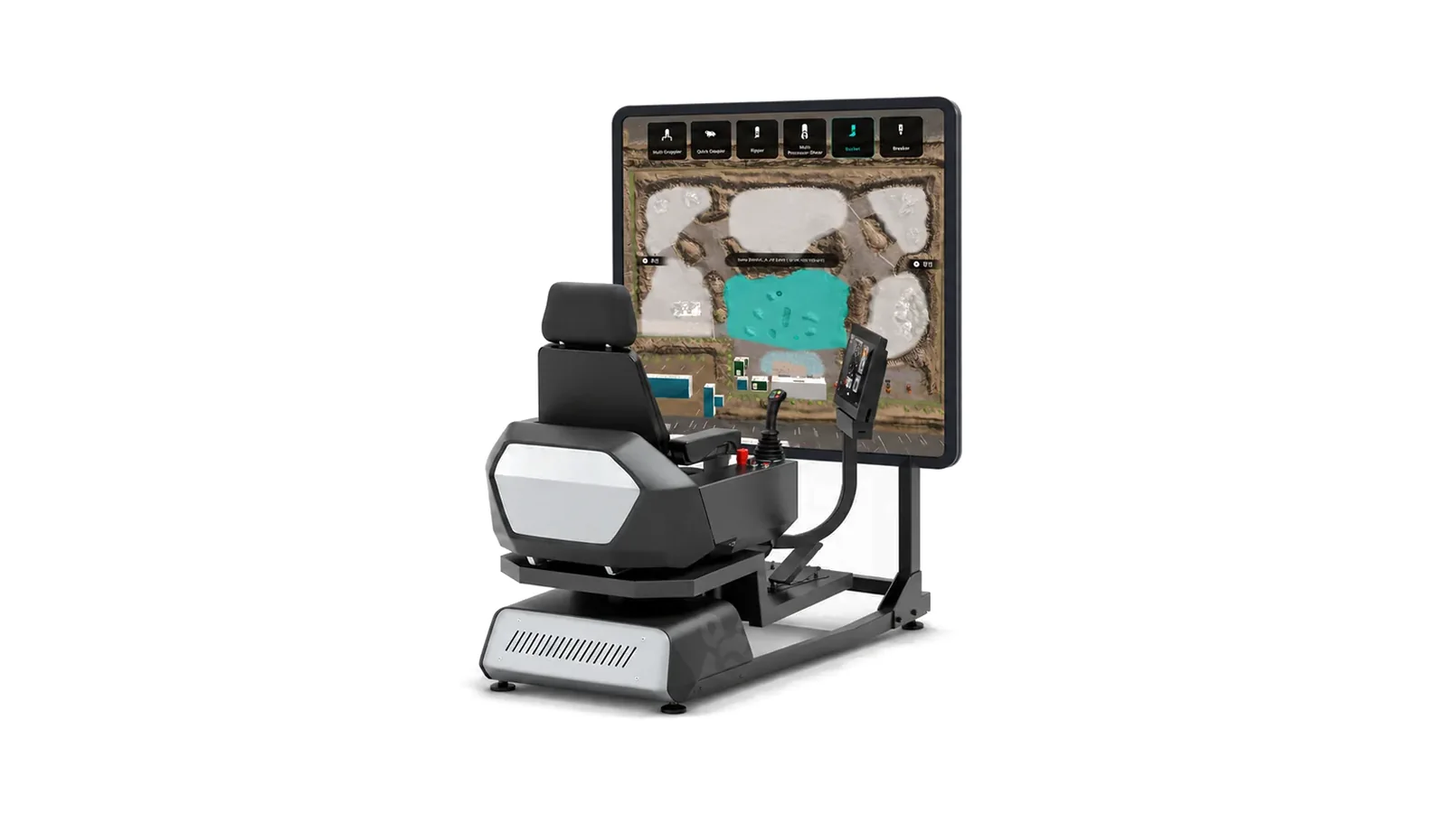
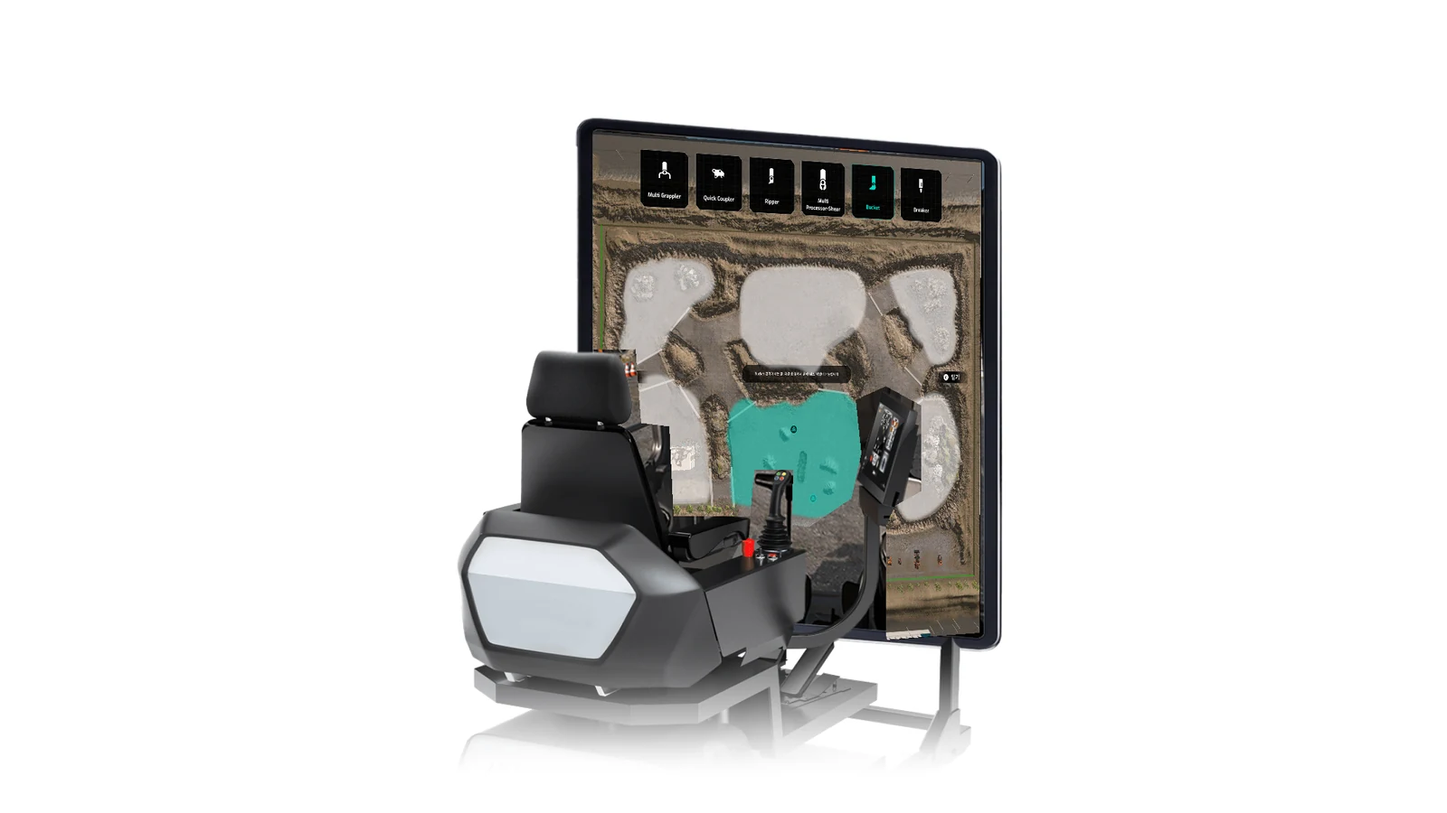
슬라이드를 원본 화면으로 (목업은 커버·시뮬레이터만), 시뮬레이터는 피그마 기기에 화면을 원근 합성

Changed region(s): [[0.3125, 0.0933, 0.7188, 0.9333]]

diff --git a/index.html b/index.html
@@ -481,7 +481,7 @@ strong { font-weight: 600; }
 }
 
 </style>
-<link rel="stylesheet" href="renewal.css?v=1119r">
+<link rel="stylesheet" href="renewal.css?v=1119t">
 <link rel="stylesheet" href="home.css?v=9">
 </head>
 <body>
@@ -613,7 +613,7 @@ strong { font-weight: 600; }
         <span class="cover-info"><span class="cover-title">한국기술교육대학교 5종</span><span class="cover-sub">재료시험 · 열처리 시뮬레이터 · PC</span><span class="cover-date">2025.05 ~ Ing</span></span>
       </a>
       <a class="cover" data-goto="hd-simulator" href="#hd-simulator">
-        <span class="cover-media"><img class="cover-img" src="assets/cover/scr-hd-simulator.webp?v=1119p" alt="Hyundai Simulator 대표 화면" loading="lazy"></span>
+        <span class="cover-media"><img class="cover-img" src="assets/cover/scr-hd-simulator.webp?v=1119s" alt="Hyundai Simulator 대표 화면" loading="lazy"></span>
         <span class="cover-info"><span class="cover-title">Hyundai Simulator</span><span class="cover-sub">굴착기 캐빈 시뮬레이터 · 전용 머신</span><span class="cover-date">2024.05 ~ Ing</span></span>
       </a>
       <a class="cover" data-goto="hd-xr" href="#hd-xr">
@@ -1177,7 +1177,7 @@ strong { font-weight: 600; }
       <p class="fig-sec-label">Screens</p>
       <h2 class="fig-sec-title">상태별 화면</h2>
       <p class="fig-sec-desc">로그인부터 알림, 설비 상태 표시, 패널 최소화, 장비 카드까지 관제 화면의 상태입니다.</p>
-      <div class="sl" data-slider tabindex="0"><div class="sl-view"><div class="sl-track"><figure class="fig-shot sl-item" data-lightbox data-caption="로그인"><img loading="lazy" decoding="async" src="assets/mock/dt-login.webp?v=1119p" data-full="assets/fig/dt-login.webp" alt="로그인"></figure><figure class="fig-shot sl-item" data-lightbox data-caption="알림"><img loading="lazy" decoding="async" src="assets/mock/dt-alarm.webp?v=1119p" data-full="assets/fig/dt-alarm.webp" alt="알림"></figure><figure class="fig-shot sl-item" data-lightbox data-caption="상태 표시 (정상 · 이상 · 비활성)"><img loading="lazy" decoding="async" src="assets/mock/dt-status.webp?v=1119p" data-full="assets/fig/dt-status.webp" alt="상태 표시 (정상 · 이상 · 비활성)"></figure><figure class="fig-shot sl-item" data-lightbox data-caption="패널 최소화"><img loading="lazy" decoding="async" src="assets/mock/dt-min.webp?v=1119p" data-full="assets/fig/dt-min.webp" alt="패널 최소화"></figure><figure class="fig-shot sl-item" data-lightbox data-caption="Parts 카드"><img loading="lazy" decoding="async" src="assets/mock/dt-parts.webp?v=1119p" data-full="assets/fig/dt-parts.webp" alt="Parts 카드"></figure><figure class="fig-shot sl-item" data-lightbox data-caption="수동 레이저 용접기 (Lv4)"><img loading="lazy" decoding="async" src="assets/mock/dt-laser.webp?v=1119p" data-full="assets/fig/dt-laser.webp" alt="수동 레이저 용접기 (Lv4)"></figure></div></div><div class="sl-bar"><p class="sl-cap"></p><div class="sl-dots"></div><div class="sl-nav"><button type="button" class="sl-prev" aria-label="이전 화면">←</button><span class="sl-count"></span><button type="button" class="sl-next" aria-label="다음 화면">→</button></div></div></div>
+      <div class="sl" data-slider tabindex="0"><div class="sl-view"><div class="sl-track"><figure class="fig-shot sl-item" data-lightbox data-caption="로그인"><img loading="lazy" decoding="async" src="assets/fig/dt-login.webp" data-mock="assets/mock/dt-login.webp?v=1119p" alt="로그인"></figure><figure class="fig-shot sl-item" data-lightbox data-caption="알림"><img loading="lazy" decoding="async" src="assets/fig/dt-alarm.webp" data-mock="assets/mock/dt-alarm.webp?v=1119p" alt="알림"></figure><figure class="fig-shot sl-item" data-lightbox data-caption="상태 표시 (정상 · 이상 · 비활성)"><img loading="lazy" decoding="async" src="assets/fig/dt-status.webp" data-mock="assets/mock/dt-status.webp?v=1119p" alt="상태 표시 (정상 · 이상 · 비활성)"></figure><figure class="fig-shot sl-item" data-lightbox data-caption="패널 최소화"><img loading="lazy" decoding="async" src="assets/fig/dt-min.webp" data-mock="assets/mock/dt-min.webp?v=1119p" alt="패널 최소화"></figure><figure class="fig-shot sl-item" data-lightbox data-caption="Parts 카드"><img loading="lazy" decoding="async" src="assets/fig/dt-parts.webp" data-mock="assets/mock/dt-parts.webp?v=1119p" alt="Parts 카드"></figure><figure class="fig-shot sl-item" data-lightbox data-caption="수동 레이저 용접기 (Lv4)"><img loading="lazy" decoding="async" src="assets/fig/dt-laser.webp" data-mock="assets/mock/dt-laser.webp?v=1119p" alt="수동 레이저 용접기 (Lv4)"></figure></div></div><div class="sl-bar"><p class="sl-cap"></p><div class="sl-dots"></div><div class="sl-nav"><button type="button" class="sl-prev" aria-label="이전 화면">←</button><span class="sl-count"></span><button type="button" class="sl-next" aria-label="다음 화면">→</button></div></div></div>
     </div>
   </section>
   <section class="section-block uf-block">
@@ -2003,7 +2003,7 @@ strong { font-weight: 600; }
 <section class="view view-hd-simulator" id="view-hd-simulator" data-view-id="hd-simulator">
 
   <!-- Project Hero -->
-  <div class="project-cover"><img src="assets/cover/scr-hd-simulator.webp?v=1119p" alt="" loading="lazy"></div>
+  <div class="project-cover"><img src="assets/cover/scr-hd-simulator.webp?v=1119s" alt="" loading="lazy"></div>
   <div class="project-hero">
     <div class="container">
       <div class="project-hero-tag reveal"><span class="dot"></span><span>Project 04 — Cabin Simulator</span></div>
@@ -2079,7 +2079,7 @@ strong { font-weight: 600; }
       <p class="fig-sec-label">진입 흐름</p>
       <h2 class="fig-sec-title">진입 흐름</h2>
       <p class="fig-sec-desc">운전석에 도달하기까지의 네 단계. 각 화면은 다음 단계의 전제를 고르는 선택 화면입니다.</p>
-      <div class="sl" data-slider tabindex="0"><div class="sl-view"><div class="sl-track"><figure class="fig-shot sl-item" data-lightbox data-caption="로비"><img loading="lazy" decoding="async" src="assets/fig/hd-sim-01-lobby.webp?v=2" data-full="assets/fig/hd-sim-01-lobby.webp?v=2" alt="로비"></figure><figure class="fig-shot sl-item" data-lightbox data-caption="공사현장 선택"><img loading="lazy" decoding="async" src="assets/fig/hd-sim-04-map.webp?v=2" data-full="assets/fig/hd-sim-04-map.webp?v=2" alt="공사현장 선택"></figure><figure class="fig-shot sl-item" data-lightbox data-caption="중장비 선택"><img loading="lazy" decoding="async" src="assets/fig/hd-sim-02-type-select.webp?v=2" data-full="assets/fig/hd-sim-02-type-select.webp?v=2" alt="중장비 선택"></figure><figure class="fig-shot sl-item" data-lightbox data-caption="어태치먼트 장착"><img loading="lazy" decoding="async" src="assets/fig/hd-sim-03-attach.webp?v=2" data-full="assets/fig/hd-sim-03-attach.webp?v=2" alt="어태치먼트 장착"></figure></div></div><div class="sl-bar"><p class="sl-cap"></p><div class="sl-dots"></div><div class="sl-nav"><button type="button" class="sl-prev" aria-label="이전 화면">←</button><span class="sl-count"></span><button type="button" class="sl-next" aria-label="다음 화면">→</button></div></div></div>
+      <div class="sl" data-slider tabindex="0"><div class="sl-view"><div class="sl-track"><figure class="fig-shot sl-item" data-lightbox data-caption="로비"><img loading="lazy" decoding="async" src="assets/mock/simc-hd-sim-01-lobby.webp?v=1" data-full="assets/fig/hd-sim-01-lobby.webp?v=2" alt="로비"></figure><figure class="fig-shot sl-item" data-lightbox data-caption="공사현장 선택"><img loading="lazy" decoding="async" src="assets/mock/simc-hd-sim-04-map.webp?v=1" data-full="assets/fig/hd-sim-04-map.webp?v=2" alt="공사현장 선택"></figure><figure class="fig-shot sl-item" data-lightbox data-caption="중장비 선택"><img loading="lazy" decoding="async" src="assets/mock/simc-hd-sim-02-type-select.webp?v=1" data-full="assets/fig/hd-sim-02-type-select.webp?v=2" alt="중장비 선택"></figure><figure class="fig-shot sl-item" data-lightbox data-caption="어태치먼트 장착"><img loading="lazy" decoding="async" src="assets/mock/simc-hd-sim-03-attach.webp?v=1" data-full="assets/fig/hd-sim-03-attach.webp?v=2" alt="어태치먼트 장착"></figure></div></div><div class="sl-bar"><p class="sl-cap"></p><div class="sl-dots"></div><div class="sl-nav"><button type="button" class="sl-prev" aria-label="이전 화면">←</button><span class="sl-count"></span><button type="button" class="sl-next" aria-label="다음 화면">→</button></div></div></div>
     </div>
   </section>
   <section class="section-block uf-block">
@@ -2210,7 +2210,7 @@ strong { font-weight: 600; }
       <p class="fig-sec-label">진입 &amp; 안내</p>
       <h2 class="fig-sec-title">진입 &amp; 안내</h2>
       <p class="fig-sec-desc">학습 사이클에 들어가기 전, 톤을 정돈하고 조작을 익히는 단계.</p>
-      <div class="sl" data-slider tabindex="0"><div class="sl-view"><div class="sl-track"><figure class="fig-shot sl-item" data-lightbox data-caption="타이틀"><img loading="lazy" decoding="async" src="assets/mock/mcu-01-title.webp?v=1119p" data-full="assets/mcu-01-title.jpg" alt="타이틀"></figure><figure class="fig-shot sl-item" data-lightbox data-caption="콘텐츠 안내 및 주의사항"><img loading="lazy" decoding="async" src="assets/mock/mcu-02-warning.webp?v=1119p" data-full="assets/mcu-02-warning.jpg" alt="콘텐츠 안내 및 주의사항"></figure><figure class="fig-shot sl-item" data-lightbox data-caption="조작법 Popup"><img loading="lazy" decoding="async" src="assets/mock/mcu-04-controls.webp?v=1119p" data-full="assets/mcu-04-controls.jpg" alt="조작법 Popup"></figure></div></div><div class="sl-bar"><p class="sl-cap"></p><div class="sl-dots"></div><div class="sl-nav"><button type="button" class="sl-prev" aria-label="이전 화면">←</button><span class="sl-count"></span><button type="button" class="sl-next" aria-label="다음 화면">→</button></div></div></div>
+      <div class="sl" data-slider tabindex="0"><div class="sl-view"><div class="sl-track"><figure class="fig-shot sl-item" data-lightbox data-caption="타이틀"><img loading="lazy" decoding="async" src="assets/mcu-01-title.jpg" data-mock="assets/mock/mcu-01-title.webp?v=1119p" alt="타이틀"></figure><figure class="fig-shot sl-item" data-lightbox data-caption="콘텐츠 안내 및 주의사항"><img loading="lazy" decoding="async" src="assets/mcu-02-warning.jpg" data-mock="assets/mock/mcu-02-warning.webp?v=1119p" alt="콘텐츠 안내 및 주의사항"></figure><figure class="fig-shot sl-item" data-lightbox data-caption="조작법 Popup"><img loading="lazy" decoding="async" src="assets/mcu-04-controls.jpg" data-mock="assets/mock/mcu-04-controls.webp?v=1119p" alt="조작법 Popup"></figure></div></div><div class="sl-bar"><p class="sl-cap"></p><div class="sl-dots"></div><div class="sl-nav"><button type="button" class="sl-prev" aria-label="이전 화면">←</button><span class="sl-count"></span><button type="button" class="sl-next" aria-label="다음 화면">→</button></div></div></div>
     </div>
   </section>
   <section class="section-block uf-block">
@@ -2345,7 +2345,7 @@ strong { font-weight: 600; }
       <p class="fig-sec-label">서브시스템</p>
       <h2 class="fig-sec-title">서브시스템</h2>
       <p class="fig-sec-desc">메타버스 진입부, Web 관리 도구, Mobile 현장 조회 — 디바이스별로 분리된 나머지 시스템들.</p>
-      <div class="sl" data-slider tabindex="0"><div class="sl-view"><div class="sl-track"><figure class="fig-shot sl-item" data-lightbox data-caption="메타버스 PC 타이틀"><img loading="lazy" decoding="async" src="assets/mock/kr-01-title.webp?v=1119p" data-full="assets/kr-01-title.jpg" alt="메타버스 PC 타이틀"></figure><figure class="fig-shot sl-item" data-lightbox data-caption="ECO 대시보드"><img loading="lazy" decoding="async" src="assets/mock/kr-04-eco-dashboard.webp?v=1119p" data-full="assets/kr-04-eco-dashboard.jpg" alt="ECO 대시보드"></figure><figure class="fig-shot sl-item" data-lightbox data-caption="Mobile Main"><img loading="lazy" decoding="async" src="assets/mock/kr-07-mobile-main.webp?v=1119p" data-full="assets/kr-07-mobile-main.jpg" alt="Mobile Main"></figure><figure class="fig-shot sl-item" data-lightbox data-caption="Mobile MSDS"><img loading="lazy" decoding="async" src="assets/mock/kr-08-mobile-msds.webp?v=1119p" data-full="assets/kr-08-mobile-msds.jpg" alt="Mobile MSDS"></figure><figure class="fig-shot sl-item" data-lightbox data-caption="경정비 모니터링"><img loading="lazy" decoding="async" src="assets/mock/kr-03-monitor.webp?v=1119p" data-full="assets/kr-03-monitor.jpg" alt="경정비 모니터링"></figure><figure class="fig-shot sl-item" data-lightbox data-caption="공정 스케줄링"><img loading="lazy" decoding="async" src="assets/mock/kr-06-schedule.webp?v=1119p" data-full="assets/kr-06-schedule.jpg" alt="공정 스케줄링"></figure></div></div><div class="sl-bar"><p class="sl-cap"></p><div class="sl-dots"></div><div class="sl-nav"><button type="button" class="sl-prev" aria-label="이전 화면">←</button><span class="sl-count"></span><button type="button" class="sl-next" aria-label="다음 화면">→</button></div></div></div>
+      <div class="sl" data-slider tabindex="0"><div class="sl-view"><div class="sl-track"><figure class="fig-shot sl-item" data-lightbox data-caption="메타버스 PC 타이틀"><img loading="lazy" decoding="async" src="assets/kr-01-title.jpg" data-mock="assets/mock/kr-01-title.webp?v=1119p" alt="메타버스 PC 타이틀"></figure><figure class="fig-shot sl-item" data-lightbox data-caption="ECO 대시보드"><img loading="lazy" decoding="async" src="assets/kr-04-eco-dashboard.jpg" data-mock="assets/mock/kr-04-eco-dashboard.webp?v=1119p" alt="ECO 대시보드"></figure><figure class="fig-shot sl-item" data-lightbox data-caption="Mobile Main"><img loading="lazy" decoding="async" src="assets/kr-07-mobile-main.jpg" data-mock="assets/mock/kr-07-mobile-main.webp?v=1119p" alt="Mobile Main"></figure><figure class="fig-shot sl-item" data-lightbox data-caption="Mobile MSDS"><img loading="lazy" decoding="async" src="assets/kr-08-mobile-msds.jpg" data-mock="assets/mock/kr-08-mobile-msds.webp?v=1119p" alt="Mobile MSDS"></figure><figure class="fig-shot sl-item" data-lightbox data-caption="경정비 모니터링"><img loading="lazy" decoding="async" src="assets/kr-03-monitor.jpg" data-mock="assets/mock/kr-03-monitor.webp?v=1119p" alt="경정비 모니터링"></figure><figure class="fig-shot sl-item" data-lightbox data-caption="공정 스케줄링"><img loading="lazy" decoding="async" src="assets/kr-06-schedule.jpg" data-mock="assets/mock/kr-06-schedule.webp?v=1119p" alt="공정 스케줄링"></figure></div></div><div class="sl-bar"><p class="sl-cap"></p><div class="sl-dots"></div><div class="sl-nav"><button type="button" class="sl-prev" aria-label="이전 화면">←</button><span class="sl-count"></span><button type="button" class="sl-next" aria-label="다음 화면">→</button></div></div></div>
     </div>
   </section>
   <section class="section-block uf-block">
@@ -2476,7 +2476,7 @@ strong { font-weight: 600; }
       <p class="fig-sec-label">사용자 &amp; 관리자</p>
       <h2 class="fig-sec-title">사용자 &amp; 관리자</h2>
       <p class="fig-sec-desc">진입·회의·개인 영역의 사용자 화면과, 운영을 위한 관리자 화면.</p>
-      <div class="sl" data-slider tabindex="0"><div class="sl-view"><div class="sl-track"><figure class="fig-shot sl-item" data-lightbox data-caption="Login"><img loading="lazy" decoding="async" src="assets/mock/xum-01-login.webp?v=1119p" data-full="assets/xum-01-login.jpg" alt="Login"></figure><figure class="fig-shot sl-item" data-lightbox data-caption="회의 목록"><img loading="lazy" decoding="async" src="assets/mock/xum-03-meetings.webp?v=1119p" data-full="assets/xum-03-meetings.jpg" alt="회의 목록"></figure><figure class="fig-shot sl-item" data-lightbox data-caption="My Info 아바타"><img loading="lazy" decoding="async" src="assets/mock/xum-04-avatar.webp?v=1119p" data-full="assets/xum-04-avatar.jpg" alt="My Info 아바타"></figure><figure class="fig-shot sl-item" data-lightbox data-caption="My 콘텐츠"><img loading="lazy" decoding="async" src="assets/mock/xum-05-contents.webp?v=1119p" data-full="assets/xum-05-contents.jpg" alt="My 콘텐츠"></figure><figure class="fig-shot sl-item" data-lightbox data-caption="로그 관리 (관리자)"><img loading="lazy" decoding="async" src="assets/mock/xum-06-logs.webp?v=1119p" data-full="assets/xum-06-logs.jpg" alt="로그 관리 (관리자)"></figure><figure class="fig-shot sl-item" data-lightbox data-caption="세션 관리 (관리자)"><img loading="lazy" decoding="async" src="assets/mock/xum-07-sessions.webp?v=1119p" data-full="assets/xum-07-sessions.jpg" alt="세션 관리 (관리자)"></figure></div></div><div class="sl-bar"><p class="sl-cap"></p><div class="sl-dots"></div><div class="sl-nav"><button type="button" class="sl-prev" aria-label="이전 화면">←</button><span class="sl-count"></span><button type="button" class="sl-next" aria-label="다음 화면">→</button></div></div></div>
+      <div class="sl" data-slider tabindex="0"><div class="sl-view"><div class="sl-track"><figure class="fig-shot sl-item" data-lightbox data-caption="Login"><img loading="lazy" decoding="async" src="assets/xum-01-login.jpg" data-mock="assets/mock/xum-01-login.webp?v=1119p" alt="Login"></figure><figure class="fig-shot sl-item" data-lightbox data-caption="회의 목록"><img loading="lazy" decoding="async" src="assets/xum-03-meetings.jpg" data-mock="assets/mock/xum-03-meetings.webp?v=1119p" alt="회의 목록"></figure><figure class="fig-shot sl-item" data-lightbox data-caption="My Info 아바타"><img loading="lazy" decoding="async" src="assets/xum-04-avatar.jpg" data-mock="assets/mock/xum-04-avatar.webp?v=1119p" alt="My Info 아바타"></figure><figure class="fig-shot sl-item" data-lightbox data-caption="My 콘텐츠"><img loading="lazy" decoding="async" src="assets/xum-05-contents.jpg" data-mock="assets/mock/xum-05-contents.webp?v=1119p" alt="My 콘텐츠"></figure><figure class="fig-shot sl-item" data-lightbox data-caption="로그 관리 (관리자)"><img loading="lazy" decoding="async" src="assets/xum-06-logs.jpg" data-mock="assets/mock/xum-06-logs.webp?v=1119p" alt="로그 관리 (관리자)"></figure><figure class="fig-shot sl-item" data-lightbox data-caption="세션 관리 (관리자)"><img loading="lazy" decoding="async" src="assets/xum-07-sessions.jpg" data-mock="assets/mock/xum-07-sessions.webp?v=1119p" alt="세션 관리 (관리자)"></figure></div></div><div class="sl-bar"><p class="sl-cap"></p><div class="sl-dots"></div><div class="sl-nav"><button type="button" class="sl-prev" aria-label="이전 화면">←</button><span class="sl-count"></span><button type="button" class="sl-next" aria-label="다음 화면">→</button></div></div></div>
     </div>
   </section>
   <section class="section-block uf-block">
@@ -2511,7 +2511,7 @@ strong { font-weight: 600; }
   <section class="section-block also-like">
     <div class="container">
       <h2 class="also-title">You may also like</h2>
-      <div class="like-grid"><a class="like" data-goto="koreatech-step" href="#koreatech-step"><span class="cover-media"><img loading="lazy" src="assets/cover/scr-koreatech-step.webp?v=1119p" alt=""></span><span class="cover-title">한국기술교육대학교 5종</span><span class="cover-sub">재료시험 · 열처리 시뮬레이터 · PC</span></a><a class="like" data-goto="hd-simulator" href="#hd-simulator"><span class="cover-media"><img loading="lazy" src="assets/cover/scr-hd-simulator.webp?v=1119p" alt=""></span><span class="cover-title">Hyundai Simulator</span><span class="cover-sub">굴착기 캐빈 시뮬레이터 · 전용 머신</span></a></div>
+      <div class="like-grid"><a class="like" data-goto="koreatech-step" href="#koreatech-step"><span class="cover-media"><img loading="lazy" src="assets/cover/scr-koreatech-step.webp?v=1119p" alt=""></span><span class="cover-title">한국기술교육대학교 5종</span><span class="cover-sub">재료시험 · 열처리 시뮬레이터 · PC</span></a><a class="like" data-goto="hd-simulator" href="#hd-simulator"><span class="cover-media"><img loading="lazy" src="assets/cover/scr-hd-simulator.webp?v=1119s" alt=""></span><span class="cover-title">Hyundai Simulator</span><span class="cover-sub">굴착기 캐빈 시뮬레이터 · 전용 머신</span></a></div>
     </div>
   </section>
   <div class="project-nav">
@@ -2603,7 +2603,7 @@ strong { font-weight: 600; }
       <p class="fig-sec-label">도메인</p>
       <h2 class="fig-sec-title">도메인</h2>
       <p class="fig-sec-desc">공통 로비에서 분기한 뒤, 각 도메인이 자기 성격대로 펼쳐지는 화면들. 진입은 하나, 학습은 셋입니다.</p>
-      <div class="sl" data-slider tabindex="0"><div class="sl-view"><div class="sl-track"><figure class="fig-shot sl-item" data-lightbox data-caption="메타버스 PC Lobby"><img loading="lazy" decoding="async" src="assets/mock/ktx-01-lobby.webp?v=1119p" data-full="assets/ktx-01-lobby.jpg" alt="메타버스 PC Lobby"></figure><figure class="fig-shot sl-item" data-lightbox data-caption="그린에너지 이론학습"><img loading="lazy" decoding="async" src="assets/mock/ktx-02-green-theory.webp?v=1119p" data-full="assets/ktx-02-green-theory.jpg" alt="그린에너지 이론학습"></figure><figure class="fig-shot sl-item" data-lightbox data-caption="반도체 3D 상호작용"><img loading="lazy" decoding="async" src="assets/mock/ktx-04-semi-3d.webp?v=1119p" data-full="assets/ktx-04-semi-3d.jpg" alt="반도체 3D 상호작용"></figure><figure class="fig-shot sl-item" data-lightbox data-caption="반도체 이론학습"><img loading="lazy" decoding="async" src="assets/mock/ktx-05-semi-theory.webp?v=1119p" data-full="assets/ktx-05-semi-theory.jpg" alt="반도체 이론학습"></figure><figure class="fig-shot sl-item" data-lightbox data-caption="스마트팩토리 인게임 진입"><img loading="lazy" decoding="async" src="assets/mock/ktx-06-factory-game.webp?v=1119p" data-full="assets/ktx-06-factory-game.jpg" alt="스마트팩토리 인게임 진입"></figure></div></div><div class="sl-bar"><p class="sl-cap"></p><div class="sl-dots"></div><div class="sl-nav"><button type="button" class="sl-prev" aria-label="이전 화면">←</button><span class="sl-count"></span><button type="button" class="sl-next" aria-label="다음 화면">→</button></div></div></div>
+      <div class="sl" data-slider tabindex="0"><div class="sl-view"><div class="sl-track"><figure class="fig-shot sl-item" data-lightbox data-caption="메타버스 PC Lobby"><img loading="lazy" decoding="async" src="assets/ktx-01-lobby.jpg" data-mock="assets/mock/ktx-01-lobby.webp?v=1119p" alt="메타버스 PC Lobby"></figure><figure class="fig-shot sl-item" data-lightbox data-caption="그린에너지 이론학습"><img loading="lazy" decoding="async" src="assets/ktx-02-green-theory.jpg" data-mock="assets/mock/ktx-02-green-theory.webp?v=1119p" alt="그린에너지 이론학습"></figure><figure class="fig-shot sl-item" data-lightbox data-caption="반도체 3D 상호작용"><img loading="lazy" decoding="async" src="assets/ktx-04-semi-3d.jpg" data-mock="assets/mock/ktx-04-semi-3d.webp?v=1119p" alt="반도체 3D 상호작용"></figure><figure class="fig-shot sl-item" data-lightbox data-caption="반도체 이론학습"><img loading="lazy" decoding="async" src="assets/ktx-05-semi-theory.jpg" data-mock="assets/mock/ktx-05-semi-theory.webp?v=1119p" alt="반도체 이론학습"></figure><figure class="fig-shot sl-item" data-lightbox data-caption="스마트팩토리 인게임 진입"><img loading="lazy" decoding="async" src="assets/ktx-06-factory-game.jpg" data-mock="assets/mock/ktx-06-factory-game.webp?v=1119p" alt="스마트팩토리 인게임 진입"></figure></div></div><div class="sl-bar"><p class="sl-cap"></p><div class="sl-dots"></div><div class="sl-nav"><button type="button" class="sl-prev" aria-label="이전 화면">←</button><span class="sl-count"></span><button type="button" class="sl-next" aria-label="다음 화면">→</button></div></div></div>
     </div>
   </section>
   <section class="section-block fig-block">
@@ -2611,7 +2611,7 @@ strong { font-weight: 600; }
       <p class="fig-sec-label">Screens</p>
       <h2 class="fig-sec-title">주요 화면</h2>
       <p class="fig-sec-desc">스마트팩토리 · 그린에너지 · 반도체 분야의 실습 공간과 OMS(주문 관리) 업무 화면입니다.</p>
-      <div class="sl" data-slider tabindex="0"><div class="sl-view"><div class="sl-track"><figure class="fig-shot sl-item" data-lightbox data-caption="Dashboard"><img loading="lazy" decoding="async" src="assets/mock/ktx-s5.webp?v=1119p" data-full="assets/fig2/ktx-s5.webp" alt="Dashboard"></figure><figure class="fig-shot sl-item" data-lightbox data-caption="OMS 훈련 선택"><img loading="lazy" decoding="async" src="assets/mock/ktx-s3.webp?v=1119p" data-full="assets/fig2/ktx-s3.webp" alt="OMS 훈련 선택"></figure><figure class="fig-shot sl-item" data-lightbox data-caption="가상 공장 실습"><img loading="lazy" decoding="async" src="assets/mock/ktx-s4.webp?v=1119p" data-full="assets/fig2/ktx-s4.webp" alt="가상 공장 실습"></figure><figure class="fig-shot sl-item" data-lightbox data-caption="운송 모드 선택"><img loading="lazy" decoding="async" src="assets/mock/ktx-s2.webp?v=1119p" data-full="assets/fig2/ktx-s2.webp" alt="운송 모드 선택"></figure><figure class="fig-shot sl-item" data-lightbox data-caption="CBM 계산기"><img loading="lazy" decoding="async" src="assets/mock/ktx-s1.webp?v=1119p" data-full="assets/fig2/ktx-s1.webp" alt="CBM 계산기"></figure><figure class="fig-shot sl-item" data-lightbox data-caption="오더 관리"><img loading="lazy" decoding="async" src="assets/mock/ktx-s6.webp?v=1119p" data-full="assets/fig2/ktx-s6.webp" alt="오더 관리"></figure></div></div><div class="sl-bar"><p class="sl-cap"></p><div class="sl-dots"></div><div class="sl-nav"><button type="button" class="sl-prev" aria-label="이전 화면">←</button><span class="sl-count"></span><button type="button" class="sl-next" aria-label="다음 화면">→</button></div></div></div>
+      <div class="sl" data-slider tabindex="0"><div class="sl-view"><div class="sl-track"><figure class="fig-shot sl-item" data-lightbox data-caption="Dashboard"><img loading="lazy" decoding="async" src="assets/fig2/ktx-s5.webp" data-mock="assets/mock/ktx-s5.webp?v=1119p" alt="Dashboard"></figure><figure class="fig-shot sl-item" data-lightbox data-caption="OMS 훈련 선택"><img loading="lazy" decoding="async" src="assets/fig2/ktx-s3.webp" data-mock="assets/mock/ktx-s3.webp?v=1119p" alt="OMS 훈련 선택"></figure><figure class="fig-shot sl-item" data-lightbox data-caption="가상 공장 실습"><img loading="lazy" decoding="async" src="assets/fig2/ktx-s4.webp" data-mock="assets/mock/ktx-s4.webp?v=1119p" alt="가상 공장 실습"></figure><figure class="fig-shot sl-item" data-lightbox data-caption="운송 모드 선택"><img loading="lazy" decoding="async" src="assets/fig2/ktx-s2.webp" data-mock="assets/mock/ktx-s2.webp?v=1119p" alt="운송 모드 선택"></figure><figure class="fig-shot sl-item" data-lightbox data-caption="CBM 계산기"><img loading="lazy" decoding="async" src="assets/fig2/ktx-s1.webp" data-mock="assets/mock/ktx-s1.webp?v=1119p" alt="CBM 계산기"></figure><figure class="fig-shot sl-item" data-lightbox data-caption="오더 관리"><img loading="lazy" decoding="async" src="assets/fig2/ktx-s6.webp" data-mock="assets/mock/ktx-s6.webp?v=1119p" alt="오더 관리"></figure></div></div><div class="sl-bar"><p class="sl-cap"></p><div class="sl-dots"></div><div class="sl-nav"><button type="button" class="sl-prev" aria-label="이전 화면">←</button><span class="sl-count"></span><button type="button" class="sl-next" aria-label="다음 화면">→</button></div></div></div>
     </div>
   </section>
   <section class="section-block uf-block">
@@ -2742,7 +2742,7 @@ strong { font-weight: 600; }
       <p class="fig-sec-label">시험 종류</p>
       <h2 class="fig-sec-title">시험 종류</h2>
       <p class="fig-sec-desc">공통 베이스 위에서 네 시험이 각자의 장비와 절차로 펼쳐지는 화면들. 색이 곧 시험의 이름표입니다.</p>
-      <div class="sl" data-slider tabindex="0"><div class="sl-view"><div class="sl-track"><figure class="fig-shot sl-item" data-lightbox data-caption="STEP · 인장시험 학습 타이틀"><img loading="lazy" decoding="async" src="assets/mock/step-ten-01-title.webp?v=1119p" data-full="assets/step-ten-01-title.jpg" alt="STEP · 인장시험 학습 타이틀"></figure><figure class="fig-shot sl-item" data-lightbox data-caption="STEP · 인장 시험기 동장 실행 (그립 잠금)"><img loading="lazy" decoding="async" src="assets/mock/step-ten-07-grip.webp?v=1119p" data-full="assets/step-ten-07-grip.jpg" alt="STEP · 인장 시험기 동장 실행 (그립 잠금)"></figure><figure class="fig-shot sl-item" data-lightbox data-caption="STEP · 경도 로크웰 시험 보고서"><img loading="lazy" decoding="async" src="assets/mock/step-hard-02-rockwell.webp?v=1119p" data-full="assets/step-hard-02-rockwell.jpg" alt="STEP · 경도 로크웰 시험 보고서"></figure><figure class="fig-shot sl-item" data-lightbox data-caption="STEP · 인장 시험 대상 및 특징"><img loading="lazy" decoding="async" src="assets/mock/step-ten-03-target.webp?v=1119p" data-full="assets/step-ten-03-target.jpg" alt="STEP · 인장 시험 대상 및 특징"></figure><figure class="fig-shot sl-item" data-lightbox data-caption="STEP · 인장 시험 대상 정보 (zSpace)"><img loading="lazy" decoding="async" src="assets/mock/step-ten-04-info.webp?v=1119p" data-full="assets/step-ten-04-info.jpg" alt="STEP · 인장 시험 대상 정보 (zSpace)"></figure><figure class="fig-shot sl-item" data-lightbox data-caption="STEP · 인장 zSpace 조작법 가이드"><img loading="lazy" decoding="async" src="assets/mock/step-ten-05-stylus.webp?v=1119p" data-full="assets/step-ten-05-stylus.jpg" alt="STEP · 인장 zSpace 조작법 가이드"></figure><figure class="fig-shot sl-item" data-lightbox data-caption="STEP · 인장 만능시험기 리모콘 패널"><img loading="lazy" decoding="async" src="assets/mock/step-ten-08-remote.webp?v=1119p" data-full="assets/step-ten-08-remote.jpg" alt="STEP · 인장 만능시험기 리모콘 패널"></figure><figure class="fig-shot sl-item" data-lightbox data-caption="STEP · 경도 비커스 경도계 프로그램"><img loading="lazy" decoding="async" src="assets/mock/step-hard-01-vickers-prog.webp?v=1119p" data-full="assets/step-hard-01-vickers-prog.jpg" alt="STEP · 경도 비커스 경도계 프로그램"></figure><figure class="fig-shot sl-item" data-lightbox data-caption="STEP · 경도 시편 받침대 인터랙션"><img loading="lazy" decoding="async" src="assets/mock/step-hard-03-mount.webp?v=1119p" data-full="assets/step-hard-03-mount.jpg" alt="STEP · 경도 시편 받침대 인터랙션"></figure><figure class="fig-shot sl-item" data-lightbox data-caption="STEP · 경도 시험편 조작 (WASD)"><img loading="lazy" decoding="async" src="assets/mock/step-hard-04-specimen.webp?v=1119p" data-full="assets/step-hard-04-specimen.jpg" alt="STEP · 경도 시험편 조작 (WASD)"></figure><figure class="fig-shot sl-item" data-lightbox data-caption="STEP · 어닐링 열처리 그래프 (결과서용)"><img loading="lazy" decoding="async" src="assets/mock/step-anneal-01-graph.webp?v=1119p" data-full="assets/step-anneal-01-graph.jpg" alt="STEP · 어닐링 열처리 그래프 (결과서용)"></figure><figure class="fig-shot sl-item" data-lightbox data-caption="STEP · 어닐링 전기로 조작"><img loading="lazy" decoding="async" src="assets/mock/step-anneal-02-furnace.webp?v=1119p" data-full="assets/step-anneal-02-furnace.jpg" alt="STEP · 어닐링 전기로 조작"></figure><figure class="fig-shot sl-item" data-lightbox data-caption="STEP · 어닐링 비커스 경도계 프로그램"><img loading="lazy" decoding="async" src="assets/mock/step-anneal-03-vickers.webp?v=1119p" data-full="assets/step-anneal-03-vickers.jpg" alt="STEP · 어닐링 비커스 경도계 프로그램"></figure><figure class="fig-shot sl-item" data-lightbox data-caption="STEP · 퀜칭 조견표 (강종별 조건)"><img loading="lazy" decoding="async" src="assets/mock/step-quench-01-table.webp?v=1119p" data-full="assets/step-quench-01-table.jpg" alt="STEP · 퀜칭 조견표 (강종별 조건)"></figure><figure class="fig-shot sl-item" data-lightbox data-caption="STEP · 퀜칭 브리넬 시험기 오브젝트 라벨"><img loading="lazy" decoding="async" src="assets/mock/step-quench-02-label.webp?v=1119p" data-full="assets/step-quench-02-label.jpg" alt="STEP · 퀜칭 브리넬 시험기 오브젝트 라벨"></figure><figure class="fig-shot sl-item" data-lightbox data-caption="STEP · 퀜칭 브리넬 시험기 오브젝트 라벨 2"><img loading="lazy" decoding="async" src="assets/mock/step-quench-03-label2.webp?v=1119p" data-full="assets/step-quench-03-label2.jpg" alt="STEP · 퀜칭 브리넬 시험기 오브젝트 라벨 2"></figure><figure class="fig-shot sl-item" data-lightbox data-caption="STEP · 퀜칭 자율학습 이동 (시점 휠)"><img loading="lazy" decoding="async" src="assets/mock/step-quench-04-roam.webp?v=1119p" data-full="assets/step-quench-04-roam.jpg" alt="STEP · 퀜칭 자율학습 이동 (시점 휠)"></figure></div></div><div class="sl-bar"><p class="sl-cap"></p><div class="sl-dots"></div><div class="sl-nav"><button type="button" class="sl-prev" aria-label="이전 화면">←</button><span class="sl-count"></span><button type="button" class="sl-next" aria-label="다음 화면">→</button></div></div></div>
+      <div class="sl" data-slider tabindex="0"><div class="sl-view"><div class="sl-track"><figure class="fig-shot sl-item" data-lightbox data-caption="STEP · 인장시험 학습 타이틀"><img loading="lazy" decoding="async" src="assets/step-ten-01-title.jpg" data-mock="assets/mock/step-ten-01-title.webp?v=1119p" alt="STEP · 인장시험 학습 타이틀"></figure><figure class="fig-shot sl-item" data-lightbox data-caption="STEP · 인장 시험기 동장 실행 (그립 잠금)"><img loading="lazy" decoding="async" src="assets/step-ten-07-grip.jpg" data-mock="assets/mock/step-ten-07-grip.webp?v=1119p" alt="STEP · 인장 시험기 동장 실행 (그립 잠금)"></figure><figure class="fig-shot sl-item" data-lightbox data-caption="STEP · 경도 로크웰 시험 보고서"><img loading="lazy" decoding="async" src="assets/step-hard-02-rockwell.jpg" data-mock="assets/mock/step-hard-02-rockwell.webp?v=1119p" alt="STEP · 경도 로크웰 시험 보고서"></figure><figure class="fig-shot sl-item" data-lightbox data-caption="STEP · 인장 시험 대상 및 특징"><img loading="lazy" decoding="async" src="assets/step-ten-03-target.jpg" data-mock="assets/mock/step-ten-03-target.webp?v=1119p" alt="STEP · 인장 시험 대상 및 특징"></figure><figure class="fig-shot sl-item" data-lightbox data-caption="STEP · 인장 시험 대상 정보 (zSpace)"><img loading="lazy" decoding="async" src="assets/step-ten-04-info.jpg" data-mock="assets/mock/step-ten-04-info.webp?v=1119p" alt="STEP · 인장 시험 대상 정보 (zSpace)"></figure><figure class="fig-shot sl-item" data-lightbox data-caption="STEP · 인장 zSpace 조작법 가이드"><img loading="lazy" decoding="async" src="assets/step-ten-05-stylus.jpg" data-mock="assets/mock/step-ten-05-stylus.webp?v=1119p" alt="STEP · 인장 zSpace 조작법 가이드"></figure><figure class="fig-shot sl-item" data-lightbox data-caption="STEP · 인장 만능시험기 리모콘 패널"><img loading="lazy" decoding="async" src="assets/step-ten-08-remote.jpg" data-mock="assets/mock/step-ten-08-remote.webp?v=1119p" alt="STEP · 인장 만능시험기 리모콘 패널"></figure><figure class="fig-shot sl-item" data-lightbox data-caption="STEP · 경도 비커스 경도계 프로그램"><img loading="lazy" decoding="async" src="assets/step-hard-01-vickers-prog.jpg" data-mock="assets/mock/step-hard-01-vickers-prog.webp?v=1119p" alt="STEP · 경도 비커스 경도계 프로그램"></figure><figure class="fig-shot sl-item" data-lightbox data-caption="STEP · 경도 시편 받침대 인터랙션"><img loading="lazy" decoding="async" src="assets/step-hard-03-mount.jpg" data-mock="assets/mock/step-hard-03-mount.webp?v=1119p" alt="STEP · 경도 시편 받침대 인터랙션"></figure><figure class="fig-shot sl-item" data-lightbox data-caption="STEP · 경도 시험편 조작 (WASD)"><img loading="lazy" decoding="async" src="assets/step-hard-04-specimen.jpg" data-mock="assets/mock/step-hard-04-specimen.webp?v=1119p" alt="STEP · 경도 시험편 조작 (WASD)"></figure><figure class="fig-shot sl-item" data-lightbox data-caption="STEP · 어닐링 열처리 그래프 (결과서용)"><img loading="lazy" decoding="async" src="assets/step-anneal-01-graph.jpg" data-mock="assets/mock/step-anneal-01-graph.webp?v=1119p" alt="STEP · 어닐링 열처리 그래프 (결과서용)"></figure><figure class="fig-shot sl-item" data-lightbox data-caption="STEP · 어닐링 전기로 조작"><img loading="lazy" decoding="async" src="assets/step-anneal-02-furnace.jpg" data-mock="assets/mock/step-anneal-02-furnace.webp?v=1119p" alt="STEP · 어닐링 전기로 조작"></figure><figure class="fig-shot sl-item" data-lightbox data-caption="STEP · 어닐링 비커스 경도계 프로그램"><img loading="lazy" decoding="async" src="assets/step-anneal-03-vickers.jpg" data-mock="assets/mock/step-anneal-03-vickers.webp?v=1119p" alt="STEP · 어닐링 비커스 경도계 프로그램"></figure><figure class="fig-shot sl-item" data-lightbox data-caption="STEP · 퀜칭 조견표 (강종별 조건)"><img loading="lazy" decoding="async" src="assets/step-quench-01-table.jpg" data-mock="assets/mock/step-quench-01-table.webp?v=1119p" alt="STEP · 퀜칭 조견표 (강종별 조건)"></figure><figure class="fig-shot sl-item" data-lightbox data-caption="STEP · 퀜칭 브리넬 시험기 오브젝트 라벨"><img loading="lazy" decoding="async" src="assets/step-quench-02-label.jpg" data-mock="assets/mock/step-quench-02-label.webp?v=1119p" alt="STEP · 퀜칭 브리넬 시험기 오브젝트 라벨"></figure><figure class="fig-shot sl-item" data-lightbox data-caption="STEP · 퀜칭 브리넬 시험기 오브젝트 라벨 2"><img loading="lazy" decoding="async" src="assets/step-quench-03-label2.jpg" data-mock="assets/mock/step-quench-03-label2.webp?v=1119p" alt="STEP · 퀜칭 브리넬 시험기 오브젝트 라벨 2"></figure><figure class="fig-shot sl-item" data-lightbox data-caption="STEP · 퀜칭 자율학습 이동 (시점 휠)"><img loading="lazy" decoding="async" src="assets/step-quench-04-roam.jpg" data-mock="assets/mock/step-quench-04-roam.webp?v=1119p" alt="STEP · 퀜칭 자율학습 이동 (시점 휠)"></figure></div></div><div class="sl-bar"><p class="sl-cap"></p><div class="sl-dots"></div><div class="sl-nav"><button type="button" class="sl-prev" aria-label="이전 화면">←</button><span class="sl-count"></span><button type="button" class="sl-next" aria-label="다음 화면">→</button></div></div></div>
     </div>
   </section>
   <section class="section-block uf-block">
@@ -2777,7 +2777,7 @@ strong { font-weight: 600; }
   <section class="section-block also-like">
     <div class="container">
       <h2 class="also-title">You may also like</h2>
-      <div class="like-grid"><a class="like" data-goto="hd-simulator" href="#hd-simulator"><span class="cover-media"><img loading="lazy" src="assets/cover/scr-hd-simulator.webp?v=1119p" alt=""></span><span class="cover-title">Hyundai Simulator</span><span class="cover-sub">굴착기 캐빈 시뮬레이터 · 전용 머신</span></a><a class="like" data-goto="hd-xr" href="#hd-xr"><span class="cover-media"><img loading="lazy" src="assets/cover/scr-hd-xr.webp?v=1119p" alt=""></span><span class="cover-title">HD 한국조선해양 LNG XR</span><span class="cover-sub">LNG선 산업용 XR · PC</span></a></div>
+      <div class="like-grid"><a class="like" data-goto="hd-simulator" href="#hd-simulator"><span class="cover-media"><img loading="lazy" src="assets/cover/scr-hd-simulator.webp?v=1119s" alt=""></span><span class="cover-title">Hyundai Simulator</span><span class="cover-sub">굴착기 캐빈 시뮬레이터 · 전용 머신</span></a><a class="like" data-goto="hd-xr" href="#hd-xr"><span class="cover-media"><img loading="lazy" src="assets/cover/scr-hd-xr.webp?v=1119p" alt=""></span><span class="cover-title">HD 한국조선해양 LNG XR</span><span class="cover-sub">LNG선 산업용 XR · PC</span></a></div>
     </div>
   </section>
   <div class="project-nav">

diff --git a/renewal.css b/renewal.css
@@ -314,3 +314,7 @@ body:not([data-view="home"]):not([data-view="landing"]):not([data-view="about"])
 .fig-sec .fig-shot img { width: 100%; height: auto; max-height: 86vh; object-fit: contain; border-radius: 12px; box-shadow: 0 30px 60px -30px rgba(0,0,0,.35) !important; transform: none !important; clip-path: none !important; }
 #view-hd-simulator .fig-sec .fig-shot img, #view-korail .fig-sec .fig-shot img[src*="mobile"] { width: auto; max-width: 100%; display: block; margin: 0 auto; }
 @media (max-width: 860px) { .fig-sec .fig-sec-text { grid-template-columns: 1fr; } .fig-sec .fig-sec-text > .fig-sec-desc { grid-column: 1; grid-row: auto; } }
+#view-hd-simulator .sl-item img[src*="assets/mock/simc"] { width: 100% !important; height: 100% !important; mix-blend-mode: multiply !important; border-radius: 0 !important; box-shadow: none !important; }
+/* 슬라이드: 원본 화면을 크게 */
+.sl-view { background: #F4F4F5; }
+.sl-item img:not([src*="assets/mock/"]) { width: 94% !important; height: 92% !important; object-fit: contain; border-radius: 8px !important; box-shadow: 0 24px 48px -28px rgba(0,0,0,.45) !important; mix-blend-mode: normal !important; }
